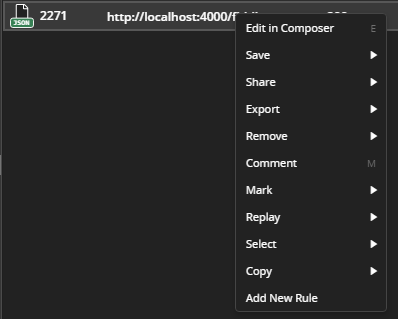
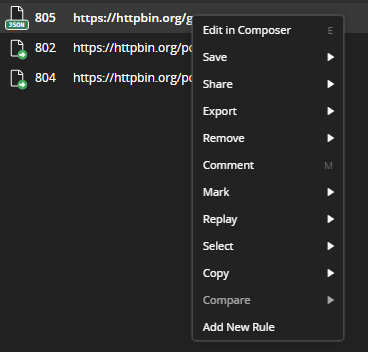
docs: session comparision feature (#257)
* docs: session comparision feature

* docs: compare sessions

* docs: minor impr

* add minor changes

diff --git a/traffic/configure-android.md b/traffic/configure-android.md
@@ -64,11 +64,11 @@ The following steps apply to real Android devices with access to the Internet th
 
             - In the prompt windows, enter a descriptive certificate name and select **VPN and apps** as credentials use.
 
-    1. Verify that the Fiddler Everywhere certificate is installed as a user certificate in **Android OS > Settings > Security > Encryption & Credentials > User and Credentials** section.
+    1. Verify that the Fiddler Everywhere certificate is installed as a user certificate in the **Android OS** > **Settings** > **Security** > **Encryption & Credentials** > **User and Credentials** section.
 
 With the above setup, you are ready to capture traffic from your Android mobile browser. Test your configuration as follows:
 
-1. In Fiddler Everywhere: Ensure that **Settings > Connections > Allow remote computers to connect** is checked and that **Live Traffic** capturing mode is turned ON.
+1. In Fiddler Everywhere, ensure that **Settings** > **Connections** > **Allow remote computers to connect** is checked and that **Live Traffic** capturing mode is turned ON.
 1. On your emulator, open **Google Chrome** (or any other mobile browser that respect the proxy settings) and type [https://example.com](https://example.com)
 1. Observe the secure traffic being captured back in Fiddler Everywhere.
 
@@ -84,7 +84,7 @@ The Android Virtual Devices (a.k.a. AVDs or Android emulators) can use Fiddler E
 1. Open **Proxy**, and then select **Manual proxy**.
 
     - Enter the emulator loopback address as a proxy address. For the state Android emulators, the address is **10.0.2.2**.
-    - Enter the proxy port. Use the port configured in the Fiddler Everywhere application (configurable through **Settings > Connections > Fiddler listens on port...** ). The default port is **8866**.
+    - Enter the proxy port. Use the port configured in the Fiddler Everywhere application (configurable through **Settings** > **Connections** > **Fiddler listens on port...** ). The default port is **8866**.
 
 1. Install the root certificate of Fiddler Everywhere on the Android device.
 
@@ -92,36 +92,39 @@ The Android Virtual Devices (a.k.a. AVDs or Android emulators) can use Fiddler E
 
     1. Tap the option to download the certificate. Then save and install as follows:
 
-        - (**Android 10 and below**) Save and install the certificate:
+        - (For Android 10 and earlier) Save and install the certificate:
 
-            - In the prompt window, enter a descriptive certificate name and tap **Save**.
-            - Install the downloaded Fiddler certificate in the device certificate storage. The settings location depends on the Android version but is usually located under **Settings** > **Security** > **Encryption and Credentials** > **Install a certificate** > **CA Certificate**.
+            1. In the prompt window, enter a descriptive certificate name and tap **Save**.
+            1. Install the downloaded Fiddler certificate in the device certificate storage. The settings location depends on the Android version but is usually located under **Settings** > **Security** > **Encryption and Credentials** > **Install a certificate** > **CA Certificate**.
 
-        - (**Android 11 and above**) Save and install the certificate:
+        - (For Android 11 and above) Save and install the certificate: 
+          
+            1. In the prompt windows, enter a descriptive certificate name. 
+            1. In the **Credentials use** field, select **VPN and apps**.
 
-            - In the prompt windows, enter a descriptive certificate name and select **VPN and apps** in the **Credentials use** field
-
-    1. Verify that the Fiddler Everywhere certificate is installed as a user certificate in **Android OS > Settings > Security > Encryption & Credentials > User and Credentials** section.
+    1. Verify that the Fiddler Everywhere certificate is installed as a user certificate in the **Android OS** > **Settings** > **Security** > **Encryption & Credentials** > **User and Credentials** section.
 
 
 With the above setup, you are ready to capture traffic from your Android mobile browser. Test your configuration as follows:
 
-1. In Fiddler Everywhere: Ensure that **Settings > Connections > Allow remote computers to connect** is checked and that **Live Traffic** capturing mode is turned ON.
-1. On your emulator, open **Google Chrome** (or any other mobile browser that respect the proxy settings) and type [https://example.com](https://example.com)
-1. Observe the secure traffic being captured back in Fiddler Everywhere.
+1. In Fiddler Everywhere, ensure that **Settings** > **Connections** > **Allow remote computers to connect** is checked and that the **Live Traffic** capturing mode is turned ON.
+1. On your emulator, open **Google Chrome** (or any other mobile browser that respect the proxy settings) and type [https://example.com](https://example.com).
+1. Back in Fiddler Everywhere, observe the secure traffic being captured.
 
 
 ## Inspecting the Browser Traffic
 
-Now you can immediately monitor HTTP/HTTPS traffic from mobile browsers. For example, open a Chrome browser on your Android device, type an address of your choice, and observe the captured traffic in the **Live Traffic** section of Fiddler Everywhere. To differentiate the traffic that comes from the mobile device from the one that is being captured from the Fiddler Everywhere host machine, you can apply a **Client IP** column filter (for example, while using the mobile device IP) or a **Process** column filter (while using the device process name).
+Now you can immediately monitor HTTP/HTTPS traffic from mobile browsers. For example, open a Chrome browser on your Android device, type an address of your choice, and observe the captured traffic in the **Live Traffic** section of Fiddler Everywhere. 
 
->important Once you're done debugging, remove the Wi-Fi proxy from your Android device to regain connectivity.
+To differentiate the traffic that comes from the mobile device from the one that is being captured from the Fiddler Everywhere host machine, you can apply a **Client IP** column filter (for example, while using the mobile device IP) or a **Process** column filter (while using the device process name).
+
+>important When you've finished debugging, remove the Wi-Fi proxy from your Android device to regain connectivity.
 
 ## Inspecting the Android Application Traffic
 
 You can monitor traffic from applications in active development, which means that you have access to the codebase of that application.
 
-1. For Android API 24 and above, add the following code to the `Android/src/main/res/xml/network_security_config.xml` file:
+1. (For Android API 24 and later) Add the following code to the `Android/src/main/res/xml/network_security_config.xml` file:
 
     ```XML
     <?xml version="1.0" encoding="utf-8"?>
@@ -158,6 +161,5 @@ You can monitor traffic from applications in active development, which means tha
 
 ## Additional Resources
 
-* [Learn how to direct localhost requests from the mobile application through the Fiddler proxy... ]({%slug fiddler-localhost-android%})
-
-* For more information on debugging mobile applications with Fiddler Everywhere, check out the [webinar on mobile app debugging](https://www.telerik.com/webinars/fiddler/how-to-debug-ios-and-android-mobile-apps-with-fiddler).
+* [Directing Localhost Requests from Mobile Application through the Fiddler Proxy]({%slug fiddler-localhost-android%})
+* [Debugging Mobile Applications with Fiddler Everywhere (Webinar)](https://www.telerik.com/webinars/fiddler/how-to-debug-ios-and-android-mobile-apps-with-fiddler)

diff --git a/traffic/inspect-traffic.md b/traffic/inspect-traffic.md
@@ -13,7 +13,7 @@ When the traffic is already captured, you can start analyzing the data.
 
 To extract information about the captured sessions, go to the [**Live Traffic**]({%slug web-sessions-list%}) tab where each request/response entry (session) is listed in a row with multiple columns fields in the **Sessions** list. There you can extract valuable data such as the returned status code, the host and the URL, the type of the used protocol (HTTP or HTTPS), the body sizer in bytes, the used HTTP method (GET or POST), and more.
 
-To open structured information about the session timings, sizes, request, and response details in the [**Overview** tab]({%slug overview-tab%}), single-click a session or select multiple sessions.
+To open the structured information about the session timings, sizes, request, and response details in the [**Overview** tab]({%slug overview-tab%}), single-click a session or select multiple sessions.
 
 ![Live Traffic and session overview](../images/livetraffic/websessions/websessions-list-all-overview.png)
 
@@ -22,9 +22,9 @@ To load [the request and response inspectors]({%slug inspector-types%}), double-
 
 The following rules are applied when you are selecting and changing sessions and using the **Inspectors** tab:
 
-- **Double-click** on a session to activate the default Inspectors for a selected session. Fiddler Everywhere will automatically decide which inspector is best suited to display the selected session's request and response when the inspectors are activated.
+- Double-click a session to activate the default Inspectors for a selected session. Fiddler Everywhere will automatically decide which inspector is best suited to display the request and response of the selected session when the inspectors are activated.
 
-- **Single-click** on a session to activate the last shown Inspectors. This is useful when you want to inspect specific inspectors for many sessions, and you don't need Fiddler Everywhere to load the best inspector based on the requests/response data.
+- Single-click a session to activate the last shown Inspectors. This is useful when you want to inspect specific inspectors for many sessions, and you don't need Fiddler Everywhere to load the best inspector based on the requests or response data.
 
 ![Live Traffic and Inspectors](../images/livetraffic/websessions/websessions-list-all.png)
 
@@ -39,4 +39,4 @@ Inspecting sessions is often done with teammates or external collaborators. Shar
 - [Capturing and Inspecting Android Traffic]({%slug capture-mobile-android-traffic%})
 - [Filtering Traffic]({%slug how-to-filter-traffic%})
 - [Live Traffic Section in details]({%slug web-sessions-list%})
-- [Inspectring Server Certificates]({%slug fe-cert-details%})
+- [Inspecting Server Certificates]({%slug fe-cert-details%})

diff --git a/traffic/compare-traffic.md b/traffic/compare-traffic.md
@@ -1,0 +1,40 @@
+---
+title: Comparing Traffic
+description: "Compare two captured sessions when working with the Telerik Fiddler Everywhere web-debugging HTTP client proxy."
+slug: fe-compare-sessions
+publish: true
+position: 35
+---
+
+# Comparing Traffic
+
+>tip The **Compare Sessions (BETA)** feature is under active development and subject to additional changes and improvements in future releases.
+
+Fiddler Everywhere provides a comparing option for detailed differentiation of two captured sessions.
+
+To compare traffic through the **Live Traffic** list:
+
+1. Set **Live Traffic** to **Capturing** and make the requests. As a result, the sessions are captured and displayed in the **Live Traffic** list.
+
+1. Select two sessions that you want to compare.
+
+1. Select the **Compare** option from the context menu and choose the **Compare in Fiddler Everywhere** nested option.
+    
+    ![Compare through the context menu](../images//livetraffic/compare/compare-context-menu.png)
+
+1. Inspect both sessions in a new **Compare Sessions (BETA**) tab.
+
+    ![Compare Sessions tab](../images/livetraffic/compare/compare-tab-001.png)
+
+
+Fiddler Everywhere loads both sessions side-by-side with the session with a lower ID to the left (primary session) and the session with the higher ID to the right (secondary session). The differences are highlighted in the session inspectors by a red background highlight for the removed content from the primary session and a green background highlight for newly added content in the secondary session.
+
+## Additional Resources
+
+* [Capturing Options with Fiddler Everywhere]({%slug capture-traffic-get-started%})
+- [Inspecting Captured Traffic]({%slug inspecting-traffic-get-started%}).
+- [Modifying Traffic]({%slug modify-traffic-get-started%})
+- [Composing Requests with Basic Authentication]({%slug basic-authentication-with-fiddler-everywhere%})
+- [Composing SOAP Requests]({%slug fiddler-composer-soap%})
+- [Capturing and Inspecting iOS Traffic]({%slug capture-mobile-ios-traffic%})
+- [Capturing and Inspecting Android Traffic]({%slug capture-mobile-android-traffic%})

diff --git a/user-guide/live-traffic.md b/user-guide/live-traffic.md
@@ -428,6 +428,19 @@ Refer to the [KB article "How to View Web Session Summary"]({%slug how-to-view-w
 
 The context menu for the **Live Traffic** exposes actions that you can apply for one or more sessions. To show the context menu, right-click (Windows OS), or press **Control** and mouse-click (macOS).
 
+- [Editing in the Composer](#editing-in-the-composer) (**Edit in Composer**)
+- [Saving](#saving) (**Save**)
+- [Sharing](#sharing) (**Share**)
+- [Exporting](#exporting) (**Export**)
+- [Removing](#removing) (**Remove**)
+- [Commenting](#commenting) (**Comment**)
+- [Marking](#marking) (**Mark**)
+- [Replaying](#replaying) (**Replay**)
+- [Selecting](#selecting) (**Select**)
+- [Copying](#copying) (**Copy**)
+- [Comparing](#comparing) (**Compare**)
+- [Adding New Rules](#adding-new-rules) (**Add New Rule**)
+
 ![Live Traffic context menu](../images/livetraffic/websessions/websessions-list-context-menu.png)
 
 ### Editing in the Composer
@@ -559,6 +572,12 @@ The following example demonstrates how to the full information.
 #   RESULT  PROTOCOL    HOST    URL METHOD  BODY    CACHING CONTENT-TYPE    PROCESS COMMENTS
 277 200 HTTP    0.0.0.0:4000    /fiddler-everywhere/images/livetraffic/websessions/websessions-list-share-options.png   GET 207,094 private, max-age=0, proxy-revalidate, no-store, no-cache, must-revalidate   image/png; charset=utf-8        
 ```
+
+### Comparing
+
+Select two sessions and use the **Compare** context menu option to load the **Compare Sessions** tab. This feature allows you to compare precisely two sessions, and the option will be inactive if more than two sessions are selected.
+
+[Learn more on how to compare sessions with Fiddler Everywhere here...]({%slug fe-compare-sessions%})
 
 ### Adding New Rules
 

diff --git a/traffic/modify-traffic.md b/traffic/modify-traffic.md
@@ -17,7 +17,7 @@ To load and modify a session through the **Composer**:
 
 1. Set **Live Traffic** to **Capturing** and make the request. As a result, the session is captured and displayed in the **Live Traffic** list.
 
-1. Select the desired session and right-click to open the context menu. From the context menu, select **Edit in Composer**. Alternatively, select the session and use the keyboard shortcut by pressing the **E** key.
+1. Select the desired session and right-click to open the context menu. From the context menu, select **Edit in Composer**. Alternatively, select the session and use the keyboard shortcut by pressing the `E` key.
 
     ![Edit in Composer](../images/composer/edit-in-composer.png)
 
@@ -33,7 +33,7 @@ This approach enables you to modify an existing request in the same way your app
 
 ## Additional Resources
 
-- [Compose Request with Basic Authentication]({%slug basic-authentication-with-fiddler-everywhere%})
-- [Compose SOAP Request]({%slug fiddler-composer-soap%})
+- [Composing Requests with Basic Authentication]({%slug basic-authentication-with-fiddler-everywhere%})
+- [Composing SOAP Requests]({%slug fiddler-composer-soap%})
 - [Capturing and Inspecting iOS Traffic]({%slug capture-mobile-ios-traffic%})
 - [Capturing and Inspecting Android Traffic]({%slug capture-mobile-android-traffic%})

diff --git a/traffic/capture-traffic.md b/traffic/capture-traffic.md
@@ -85,5 +85,5 @@ Fiddler Everywhere 3.0 and above support HTTP/2 traffic capture and composing. N
 - [Capturing and Inspecting iOS Traffic]({%slug capture-mobile-ios-traffic%})
 - [Capturing and Inspecting Android Traffic]({%slug capture-mobile-android-traffic%})
 - [Filtering Traffic]({%slug how-to-filter-traffic%})
-- [Live Traffic Section in details]({%slug web-sessions-list%})
-- [Inspectring Server Certificates]({%slug fe-cert-details%})
+- [Live Traffic Section in Details]({%slug web-sessions-list%})
+- [Inspecting Server Certificates]({%slug fe-cert-details%})

diff --git a/traffic/configure-ios.md b/traffic/configure-ios.md
@@ -79,4 +79,4 @@ The later versions of the iOS simulators, which are accessible through XCode, us
 
 Now you can immediately monitor HTTP/HTTPS traffic from your iOS device. For example, open a Safari browser on your iOS device, type an address of your choice, and observe the captured traffic in the **Live Traffic** section of Fiddler Everywhere.
 
->tip Once you're done debugging, remove the WiFi proxy from your iOS device.
+>tip When you've finished debugging, remove the WiFi proxy from your iOS device.

diff --git a/get-started/quickstart-macos.md b/get-started/quickstart-macos.md
@@ -107,6 +107,7 @@ That was it! Now you are ready to dive more deeply into Fiddler Everywhere and t
 
 ## Next Steps
 
+* [Learn more about the capturing options with Fiddler Everywhere]({%slug capture-traffic-get-started%})
 * [Sharing captured sessions with collaborators]({% slug collaboration-get-started %})
 * [Creating API requests]({% slug composer-get-started %})
 * [Grouping the API requests in collections]({% slug composer-collections-get-started %})

diff --git a/get-started/quickstart-windows.md b/get-started/quickstart-windows.md
@@ -108,6 +108,7 @@ That was it! Now you are ready to dive more deeply into Fiddler Everywhere and t
 
 ## Next Steps
 
+* [Learn more about the capturing options with Fiddler Everywhere]({%slug capture-traffic-get-started%})
 * [Sharing captured sessions with collaborators]({% slug collaboration-get-started %})
 * [Creating API requests]({% slug composer-get-started %})
 * [Grouping the API requests in collections]({% slug composer-collections-get-started %})

diff --git a/get-started/quickstart-linux.md b/get-started/quickstart-linux.md
@@ -152,6 +152,7 @@ That was it! Now you are ready to dive more deeply into Fiddler Everywhere and t
 
 ## Next Steps
 
+* [Learn more about the capturing options with Fiddler Everywhere]({%slug capture-traffic-get-started%})
 * [Configuring Fiddler Everywhere on Fedora, CentOS, or RedHat]({%slug fiddler-fedora-centos%})
 * [Configuring Fiddler Everywhere on XFCE]({%slug fiddler-xfce%})
 * [Creating PEM certificate]({%slug how-to-create-pem%})
